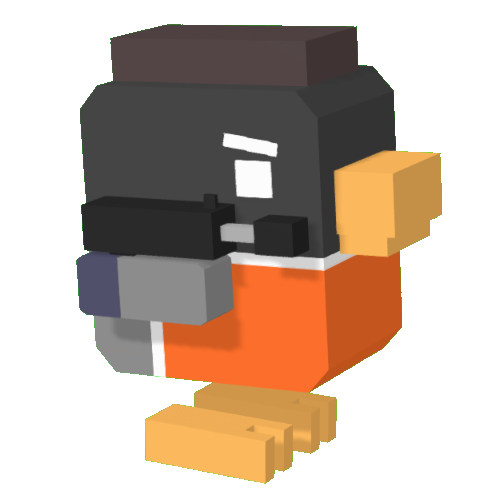
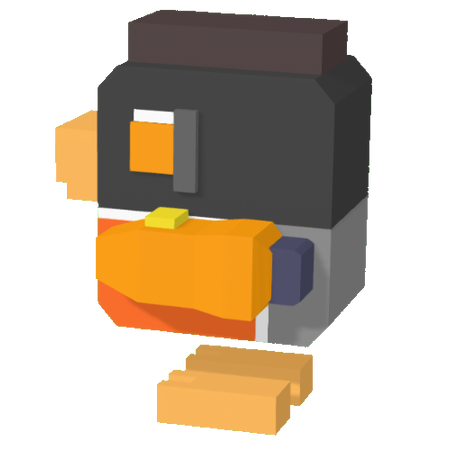
eagle

diff --git a/ts/ui/wrapper/bird_wrapper.ts b/ts/ui/wrapper/bird_wrapper.ts
@@ -9,11 +9,11 @@ import { ButtonWrapper } from 'ui/wrapper/button_wrapper'
 
 export class BirdWrapper extends HtmlWrapper<HTMLElement> {
 
-	private static readonly _types = new Array(BirdType.BOOBY, BirdType.CHICKEN, BirdType.DUCK, BirdType.ROBIN);
 	private static readonly _names = new Map([
 		[BirdType.BOOBY, "Blue-footed Booby"],
 		[BirdType.CHICKEN, "Chicken"],
 		[BirdType.DUCK, "Mallard Duck"],
+		[BirdType.EAGLE, "Bald Eagle"],
 		[BirdType.ROBIN, "Robin"],
 	]);
 
@@ -24,6 +24,7 @@ export class BirdWrapper extends HtmlWrapper<HTMLElement> {
 		align-items: center;
 	`
 
+	private _types : Array<BirdType>;
 	private _index : number;
 	private _nameElm : HTMLElement;
 	private _photoElm : HTMLElement;
@@ -37,7 +38,9 @@ export class BirdWrapper extends HtmlWrapper<HTMLElement> {
 
 		this.elm().classList.add(Html.classBirdPicker);
 
-		this._index = Math.floor(Math.random() * BirdWrapper._types.length);
+		this._types = [...BirdWrapper._names.entries()].sort((a, b) => a[1].localeCompare(b[1])).map(entry => entry[0]);
+
+		this._index = Math.floor(Math.random() * this._types.length);
 
 		this._photoElm = Html.div();
 		this._photoElm.classList.add(Html.classBirdPhoto);
@@ -54,7 +57,7 @@ export class BirdWrapper extends HtmlWrapper<HTMLElement> {
 		this._leftButton.addOnClick(() => {
 			this._index--;
 			if (this._index < 0) {
-				this._index = BirdWrapper._types.length - 1;
+				this._index = this._types.length - 1;
 			}
 			this.updateImg();
 		});
@@ -92,7 +95,7 @@ export class BirdWrapper extends HtmlWrapper<HTMLElement> {
 	}
 
 	type() : BirdType {
-		return BirdWrapper._types[this._index % BirdWrapper._types.length]
+		return this._types[this._index % this._types.length]
 	}
 
 	private updateImg() : void {

diff --git a/ts/game/factory/entity_factory.ts b/ts/game/factory/entity_factory.ts
@@ -25,6 +25,7 @@ import { Scouter } from 'game/entity/equip/scouter'
 import { BoobyBeak } from 'game/entity/equip/beak/booby_beak'
 import { ChickenBeak } from 'game/entity/equip/beak/chicken_beak'
 import { DuckBeak } from 'game/entity/equip/beak/duck_beak'
+import { EagleBeak } from 'game/entity/equip/beak/eagle_beak'
 import { RobinBeak } from 'game/entity/equip/beak/robin_beak'
 import { BoobyHair } from 'game/entity/equip/headwear/booby_hair'
 import { ChickenHair } from 'game/entity/equip/headwear/chicken_hair'
@@ -92,6 +93,7 @@ export namespace EntityFactory {
 		[EntityType.COWBOY_HAT, (options : EntityOptions) => { return new CowboyHat(options); }],
 		[EntityType.DUCK_BEAK, (options : EntityOptions) => { return new DuckBeak(options); }],
 		[EntityType.DYING_STAR, (options : EntityOptions) => { return new DyingStar(options); }],
+		[EntityType.EAGLE_BEAK, (options : EntityOptions) => { return new EagleBeak(options); }],
 		[EntityType.FLOOR, (options : EntityOptions) => { return new Floor(options); }],
 		[EntityType.GATLING, (options : EntityOptions) => { return new Gatling(options); }],
 		[EntityType.HEADBAND, (options : EntityOptions) => { return new Headband(options); }],

diff --git a/ts/game/entity/player.ts b/ts/game/entity/player.ts
@@ -110,12 +110,14 @@ export class Player extends EntityBase implements EquipEntity, InteractEntity {
 		[BirdType.BOOBY, TextureType.BIRD_BOOBY],
 		[BirdType.CHICKEN, TextureType.BIRD_CHICKEN],
 		[BirdType.DUCK, TextureType.BIRD_DUCK],
+		[BirdType.EAGLE, TextureType.BIRD_EAGLE],
 		[BirdType.ROBIN, TextureType.BIRD_ROBIN],
 	]);
 	private static readonly _eyeTextures = new Map<BirdType, TextureType>([
 		[BirdType.BOOBY, TextureType.BLACK_EYE],
 		[BirdType.CHICKEN, TextureType.BLACK_EYE],
 		[BirdType.DUCK, TextureType.BLACK_EYE],
+		[BirdType.EAGLE, TextureType.EAGLE_EYE],
 		[BirdType.ROBIN, TextureType.WHITE_EYE],
 	]);
 
@@ -123,6 +125,7 @@ export class Player extends EntityBase implements EquipEntity, InteractEntity {
 		[BirdType.BOOBY, EntityType.BOOBY_BEAK],
 		[BirdType.CHICKEN, EntityType.CHICKEN_BEAK],
 		[BirdType.DUCK, EntityType.DUCK_BEAK],
+		[BirdType.EAGLE, EntityType.EAGLE_BEAK],
 		[BirdType.ROBIN, EntityType.ROBIN_BEAK],
 	]);
 	private static readonly _hairTypes = new Map<BirdType, EntityType>([

diff --git a/ts/game/entity/equip/beak/eagle_beak.ts b/ts/game/entity/equip/beak/eagle_beak.ts
@@ -1,0 +1,17 @@
+
+import { EntityOptions } from 'game/entity'
+import { EntityType } from 'game/entity/api'
+import { Beak } from 'game/entity/equip/beak'
+import { MeshType, SoundType } from 'game/factory/api'
+
+export class EagleBeak extends Beak {
+
+	constructor(options : EntityOptions) {
+		super(EntityType.EAGLE_BEAK, options);
+	}
+
+	override meshType() : MeshType { return MeshType.EAGLE_BEAK; }
+	override soundType() : SoundType { return SoundType.EAGLE_SCREECH; }
+	override squawkCooldown() : number { return 5000; }
+
+}

diff --git a/ts/game/factory/api.ts b/ts/game/factory/api.ts
@@ -186,6 +186,7 @@ export enum MeshType {
 	CHICKEN_BEAK,
 	CHICKEN_HAIR,
 	DUCK_BEAK,
+	EAGLE_BEAK,
 	ROBIN_BEAK,
 	ROBIN_HAIR,
 
@@ -241,6 +242,7 @@ export enum SoundType {
 	CHARGED_BOLT,
 	CHAT,
 	DASH,
+	EAGLE_SCREECH,
 	EXPLOSION,
 	FOOTSTEP,
 	GATLING,
@@ -265,7 +267,9 @@ export enum TextureType {
 	BIRD_BOOBY,
 	BIRD_CHICKEN,
 	BIRD_DUCK,
+	BIRD_EAGLE,
 	BIRD_ROBIN,
 	BLACK_EYE,
+	EAGLE_EYE,
 	WHITE_EYE,
 }

diff --git a/ts/game/factory/sound_factory.ts b/ts/game/factory/sound_factory.ts
@@ -67,6 +67,12 @@ export namespace SoundFactory {
 				spatialSound: true,
 			},
 		}],
+		[SoundType.EAGLE_SCREECH, {
+			path: "eagle_screech.mp3",
+			options: {
+				spatialSound: true,
+			},
+		}],
 		[SoundType.EXPLOSION, {
 			path: "explosion.mp3",
 			options: {

diff --git a/ts/game/entity/api.ts b/ts/game/entity/api.ts
@@ -43,6 +43,7 @@ export enum EntityType {
 	CRATE,
 	DUCK_BEAK,
 	DYING_STAR,
+	EAGLE_BEAK,
 	FLOOR,
 	GATLING,
 	HEADBAND,
@@ -89,6 +90,7 @@ export enum BirdType {
 	BOOBY,
 	CHICKEN,
 	DUCK,
+	EAGLE,
 	ROBIN,
 }
 

diff --git a/ts/global/ui_globals.ts b/ts/global/ui_globals.ts
@@ -4,5 +4,5 @@ export namespace UiGlobals {
 
 	export const roomParam = "room";
 
-	export const versionString = "alpha 0.83";
+	export const versionString = "alpha 0.84";
 }
